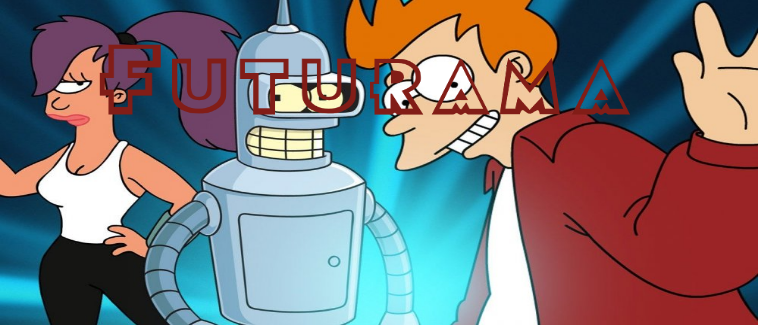
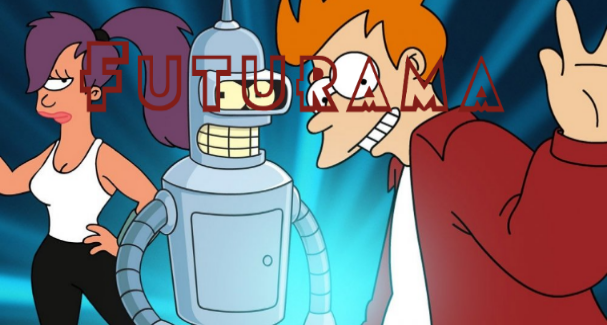
Finished the majority of stuff. May update more.

diff --git a/FuturamaSite.html b/FuturamaSite.html
@@ -1,7 +1,7 @@
 <!DOCTYPE html>
 <html>
 <head>
-<title>Projects</title>
+<title>Futurama Site</title>
 </head>
 <body>
 
@@ -26,30 +26,29 @@
 
 </div>
  </nav>
-
-<h1 class="text-white">Projects</h1>
+<img src="Images/FuturamaSite2.png">
+<h1 class="text-white">Futurama Site</h1>
 
 <div class="border">
 <div class="fonts">
+<pre>
 <p class="text-white">
-Here are somethings I have done with code.
+My first programming project of 2020 was a website 
+about Futurama. I made this site using HTML and CSS
+which I was starting to learn again. 
+
+Looking back, this site has a good few flaws but I 
+loved making it and it helped me obtain my interest 
+for coding again.
+
+I decided to make this site about Futurama as I had 
+being watching every episode of that time, so I 
+thought I could use my knowledge of that to help me
+out.
+
+</pre>
 </p>
 </div>
 </div>
-<br>
-<a href="index.html">
-<img src="Images/Logo.png">
-</a>
-<h1 class="text-white">This website</h1>
-<br>
-<a href="8Ball.html">
-<img src="Images/Magic8Ball.png">
-</a>
-<h1 class="text-white">Magic 8 Ball</h1>
-<br>
-<a href="FuturamaSite.html">
-<img src="Images/FuturamaSite.png">
-</a>
-<h1 class="text-white">Futurama Site</h1>
 </body>
 </html>

diff --git a/CSS/Style.css b/CSS/Style.css
@@ -22,7 +22,7 @@ display:none;
 }
 
 body {
-background:url("https://img5.goodfon.com/wallpaper/nbig/d/da/synth-retrowave-synthwave-fon-new-retro-wave-sintveiv-ret-26.jpg");
+    background:url("https://img5.goodfon.com/wallpaper/nbig/d/da/synth-retrowave-synthwave-fon-new-retro-wave-sintveiv-ret-26.jpg");
 }
 
 .fonts {
